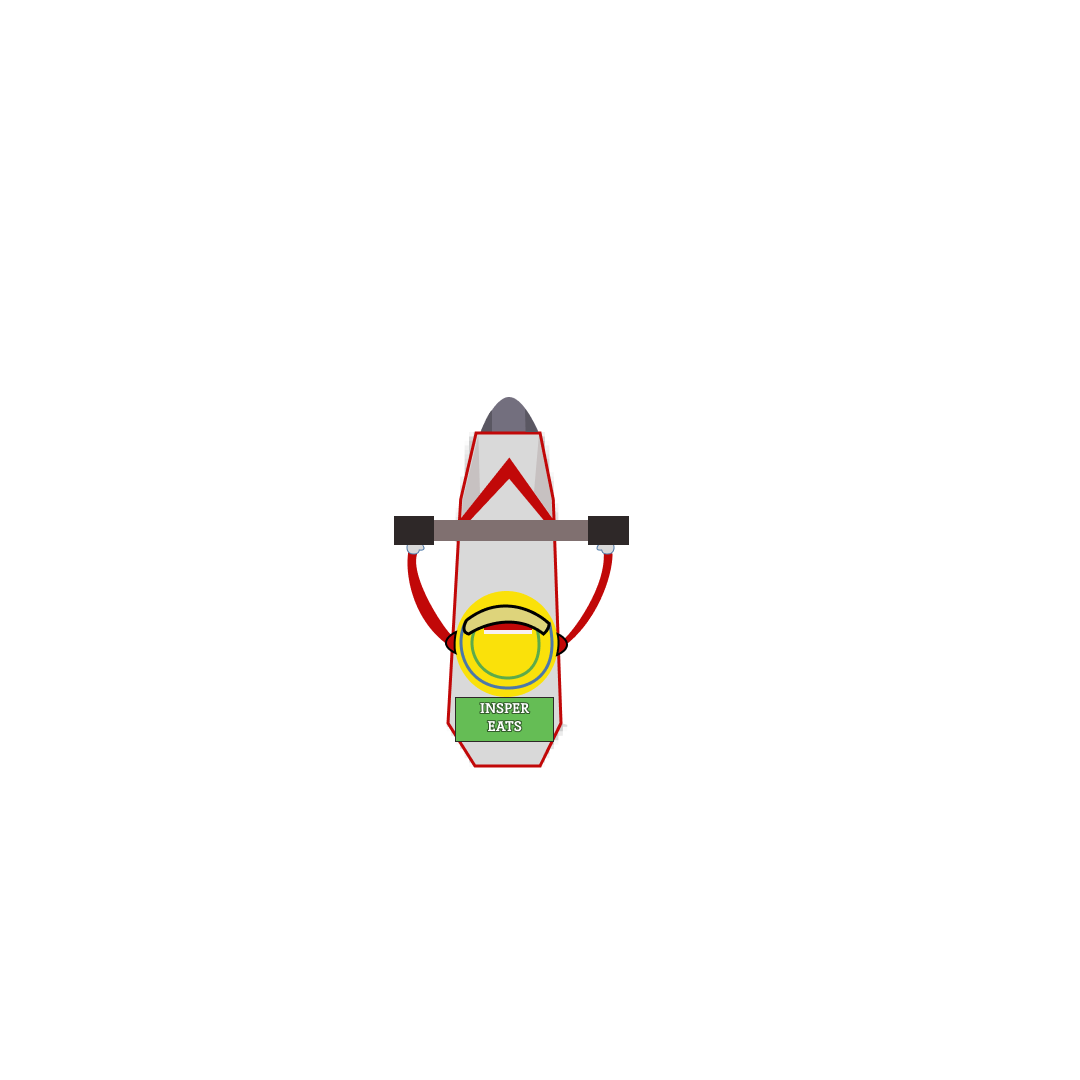
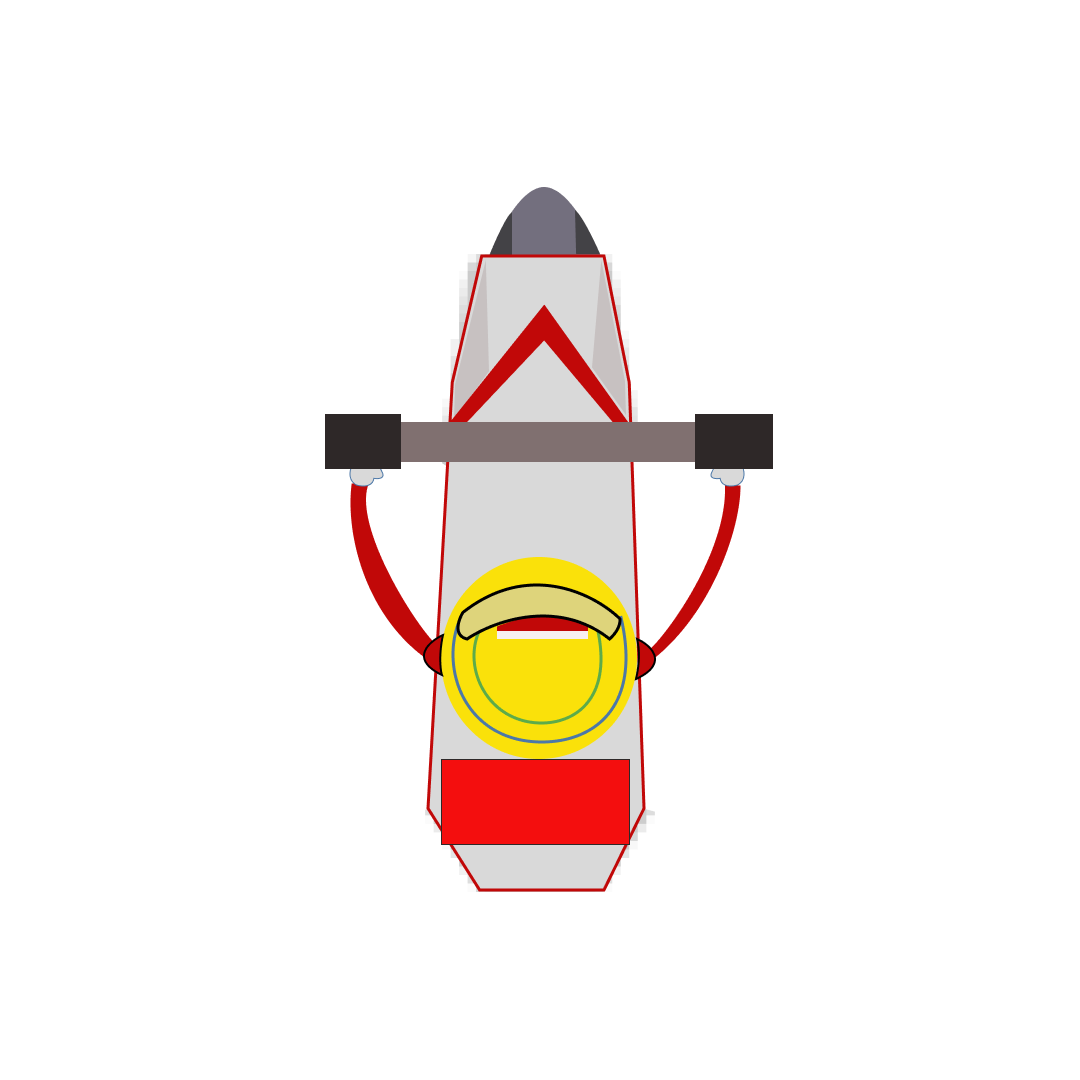
Teste dos rects das paredes

Changed region(s): [[0.275, 0.1528, 0.7333, 0.825]]

diff --git a/Main.py b/Main.py
@@ -9,7 +9,7 @@ pygame.init()
 pygame.mixer.init()
 
 # ----- Gera tela principal
-window = pygame.display.set_mode((WIDTH, HEIGHT))
+window = pygame.display.set_mode((WIDTH + 100, HEIGHT + 100))
 pygame.display.set_caption('Motinha')
 
 game = True
@@ -34,6 +34,10 @@ g = Grama(assets, state)
 paredes.add(g)
 states = [DOIS_H, DOIS_VD, DOIS_VE, DOIS_H, TRES]
 retas = [RETA, RETA, RETA, RETA, RETA, RETA_D, RETA_E]
+
+vertices = [(0, 0), (0, 0), (0, HEIGHT), (0, HEIGHT)]
+
+quadrado = pygame.draw.polygon(window, RED, vertices)
 
 tempo = 0
 
@@ -103,6 +107,7 @@ while state != FIM:
         
         g = Grama(assets, state)
         paredes.add(g)
+        
         tempo = 0
 
 
@@ -131,6 +136,12 @@ while state != FIM:
         elif player.rect.right > WIDTH/2:
             player.rect.right -= 1
             player.speedx = 0
+
+        vertices = [(parede.rect.left, 0), (parede.rect.right, 0), (parede.rect.bottom, HEIGHT), (parede.rect.top, HEIGHT)]
+
+        quadrado = pygame.draw.polygon(window, RED, vertices)
+
+        
 
 
         '''
@@ -164,7 +175,7 @@ while state != FIM:
     #window.fill(BLACK)  # Preenche com a cor preta
     #window.blit(assets[BACKGROUND], (0, 0))
     
-    
+
     if state == 1:
         window.blit(assets[B_RETA], (0, 0))
     elif state == 2:

diff --git a/config.py b/config.py
@@ -5,8 +5,8 @@ IMG_DIR = path.join(path.dirname(__file__), 'assets', 'img')
 SND_DIR = path.join(path.dirname(__file__), 'assets', 'snd')
 #FNT_DIR = path.join(path.dirname(__file__), 'assets', 'font')
 
-MOTO_WIDTH = 320
-MOTO_HEIGHT = 320
+MOTO_WIDTH = 230
+MOTO_HEIGHT = 230
 CARRO_WIDTH = 80
 CARRO_HEIGHT = 120  #Tamanhos aleatorios ate o momento
 
